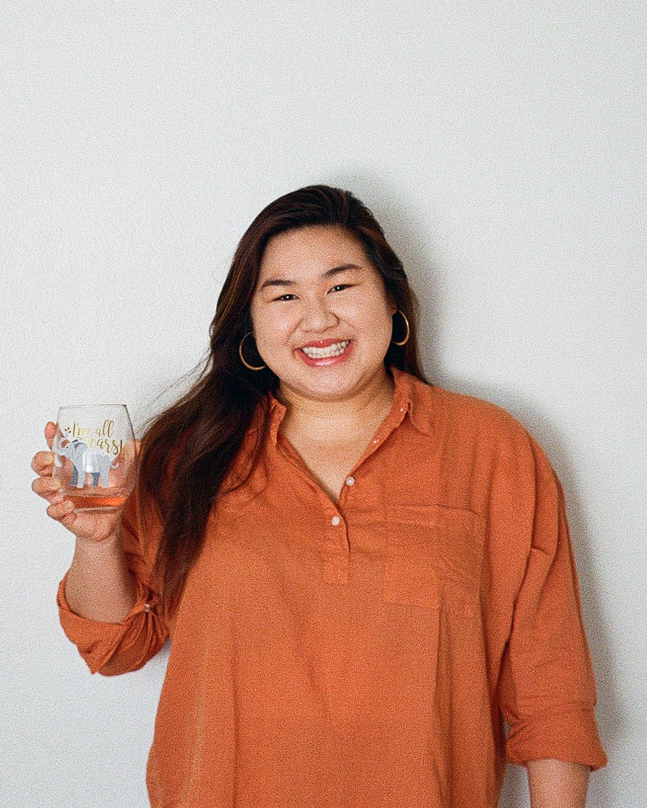
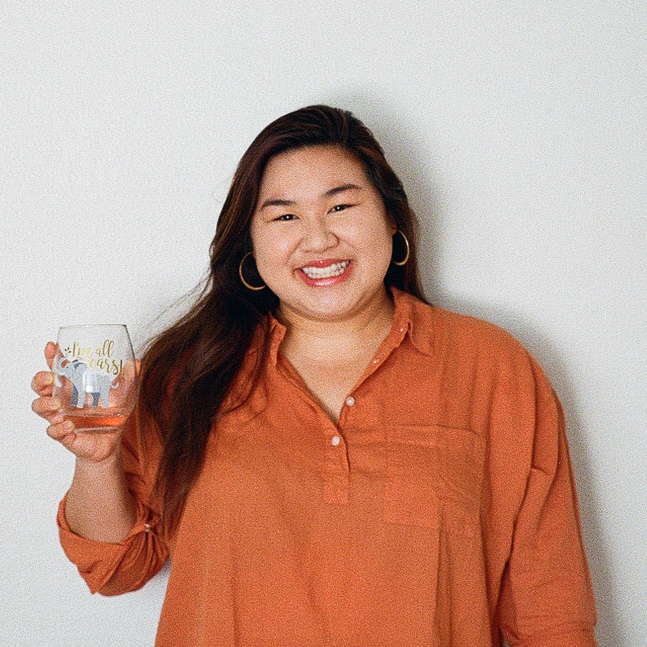
Updated profile picture.

Changed region(s): [[0.0309, 0.1236, 1.0, 1.0]]

diff --git a/index.html b/index.html
@@ -31,7 +31,7 @@
       </header>
 
       <div class=profile>
-        <img style="max-width:100%; height:auto;" src="assets/profile1-square.jpg" alt = "profile">
+        <img style="max-width:100%; height:auto;" src="assets/profile4.jpg" alt = "profile">
       </div>
 
       <article>
